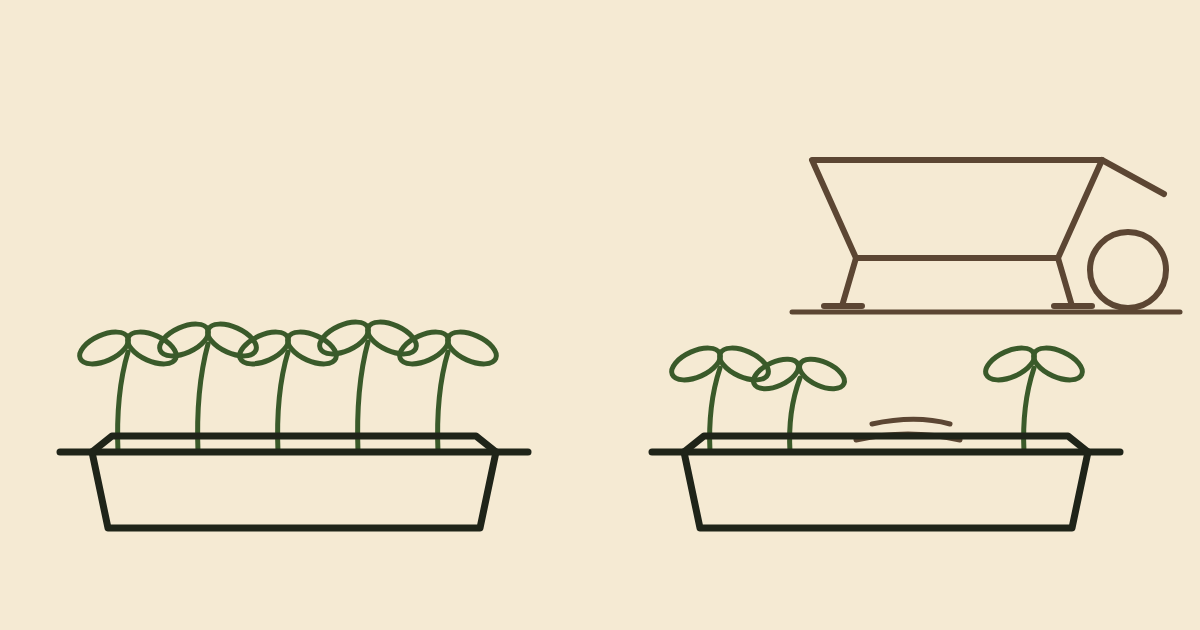
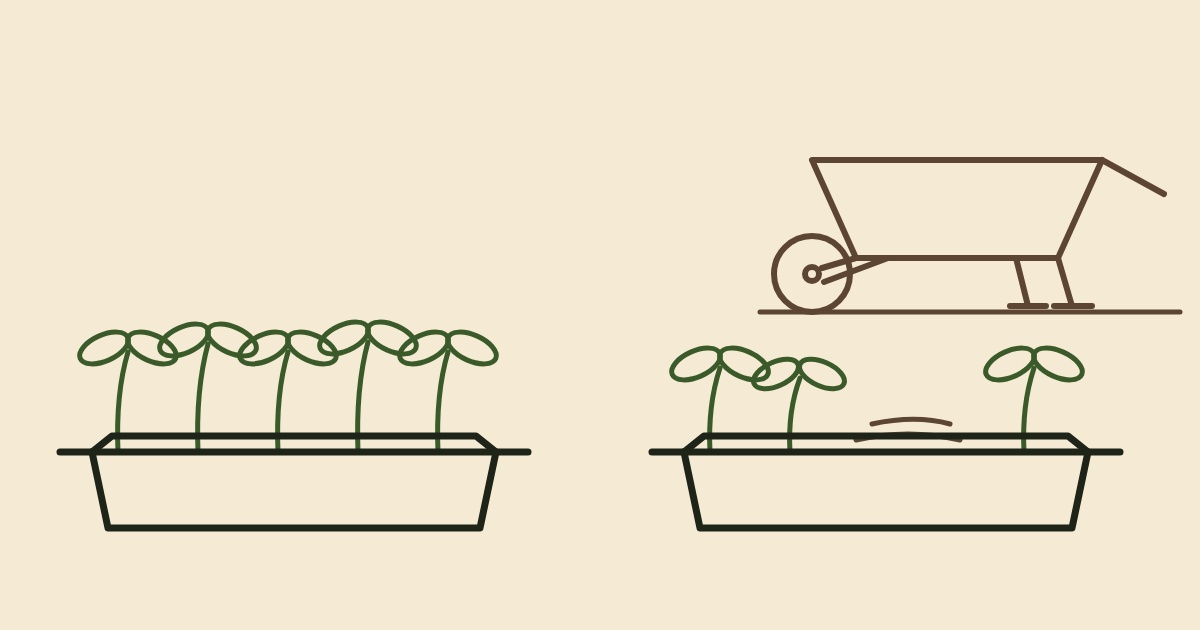
fix(blog): correct wheelbarrow wheel on when-a-tray-goes-wrong hero
The wheel was drawn at the handle end and detached from the barrow, the
same error caught on the Aug 26 mulch hero. Moved it to the front with
two struts to the tub and a hub, dropped the leg at the wheel end in
favor of a rear pair, and extended the ground line to meet the wheel.
PNG re-rendered from the corrected SVG.

Claude-Session: https://claude.ai/code/session_01EmqMBREf57NdiKXSnN8nHS

diff --git a/CONTENT-PLAN.md b/CONTENT-PLAN.md
@@ -301,7 +301,7 @@ file back into `posts/`.
 | Tue Aug 25 | Homestead journal | Cover crop check-in | What's growing, what the soil looks like under it. Pays off the Aug 5 post, which deliberately reported no germination result. **Facts from Albert 2026-08-24: the stand came up and it came up even, he cannot name species out there yet, and the ground is mostly covered with bare sand hard to find now.** So the post **names no species at all** and says why, rather than listing what we would expect to see. The one finding is the ground cover. Notes that broadcasting into mowed residue could have come up blotchy and did not. **No per-acre figure, no invented bag price, and chop-and-drop stays withheld for Sep 9.** Loose kitchen-table register, opens cold on two words. 649 words. | [x] posts/cover-crop-check-in.md |
 | Wed Aug 26 | Permaculture | Mulch: the cheapest tool we have | The practical how-to: where to source it, how deep, and how often to replenish in Florida heat. Pairs with the Jul 22 worms post; hands-on, not theory. **Facts from Albert 2026-08-24: ours is free tree service chips, we have never bought it, laid three to four inches, topped up about once a year.** Mulch was referenced in Jul 28, Aug 4, Aug 12, and Aug 18 and never once explained, so the material itself was open ground. Frames the chip drop as a favor to the crew rather than scrounging, and is honest that you choose neither species nor day nor quantity. Closes on three ways to get it wrong: expecting compost, being precious about species, and waiting for a plan. **Review round 1 on 2026-08-26 added a third practical note**: take-what-comes is really a first-load rule, and a crew that keeps coming back can be asked for something more specific, with the arborist framed as the person who can tell you what a load will do once it is down if you do not know what to ask for. **Written in second person as available to the reader, never as our own standing relationship, because we have none on record and the no-fabricated-anecdote rule applies.** The species mistake stays as written and now says plainly that asking a crew you know is not the same as refusing a free load. Same round fixed the hero SVG, whose wheel had been drawn at the handle end and detached. Longest permaculture post so far at 1031 words. | [x] posts/mulch-the-cheapest-tool-we-have.md |
 | Thu Aug 27 | On the route | Meet College Park and Downtown Orlando | Fourth and final neighborhoods profile, completing all nine. **Applies the Aug 20 call: design only, no admission.** Present tense about the design, never about drops, and one line about the route ending in College Park twice a week was rewritten to describe the route rather than report deliveries. **Does not repeat the invented customer copy on the city pages**, specifically College Park's "most stops happen between 5pm and 7pm" and downtown's condo-dweller closer. Two neighborhoods that are not on the same route are together because both sit on ground that grew food: College Park's first known house was built by a citrus grower in the middle of an eighty acre grove, the college street names came with the 1920s boom, Dubsdread opened 1924, Kerouac wrote on Clouser. Parramore is named because it is the reason the Sunday route exists, and it gets a short factual paragraph, established in the 1880s, the historical hub of Orlando's African American community, cut off from downtown by the interstate in the 1960s, plus an explicit line that being there on a Sunday is not the same as being from there. Verified against Wikipedia and the Orange County Regional History Center 2026-08-24; no figures the sources did not confirm. Design section contrasts a dinner delivery against a Sunday setup delivery, which is the one operational idea no other route post has. 920 words. | [x] posts/meet-college-park-and-downtown-orlando.md |
-| Fri Aug 28 | Growing notes | When a tray goes wrong | **Angle narrowed hard after a coverage grep.** Aug 8 owns diagnosis in full, including root hairs versus mold, and beet-molds-most-often already ran Jul 14, Jul 26, and Aug 7. So this post refuses diagnosis and takes the shed-side decision instead: what happens to the tray. **Facts from Albert 2026-08-24, both new to the blog: patchy germination, and pea mold.** A patchy tray is not restarted, not topped up, and not cut lower to make weight; it just means less in the clamshell, so the shed absorbs it as yield. A moldy tray is out entirely, never trimmed around, which also keeps the adulteration rule intact. **Moldy pea goes to the black soldier fly bin rather than the chickens because it is not good for the birds**, which pays off both Jul 8 and Jul 28. Beet stays named as the crop we lose most often; pea is added to that story, not a correction of it. No invented seed counts. 721 words. | [x] posts/when-a-tray-goes-wrong.md |
+| Fri Aug 28 | Growing notes | When a tray goes wrong | **Angle narrowed hard after a coverage grep.** Aug 8 owns diagnosis in full, including root hairs versus mold, and beet-molds-most-often already ran Jul 14, Jul 26, and Aug 7. So this post refuses diagnosis and takes the shed-side decision instead: what happens to the tray. **Facts from Albert 2026-08-24, both new to the blog: patchy germination, and pea mold.** A patchy tray is not restarted, not topped up, and not cut lower to make weight; it just means less in the clamshell, so the shed absorbs it as yield. A moldy tray is out entirely, never trimmed around, which also keeps the adulteration rule intact. **Moldy pea goes to the black soldier fly bin rather than the chickens because it is not good for the birds**, which pays off both Jul 8 and Jul 28. Beet stays named as the crop we lose most often; pea is added to that story, not a correction of it. No invented seed counts. 721 words. **Hero SVG fixed 2026-08-28**: the wheelbarrow wheel had been drawn at the handle end and detached, the same error caught on the Aug 26 mulch hero. Wheel moved to the front, tied to the tub with two struts, hub added, the spare leg at the wheel end dropped, ground line extended left to meet it, and the PNG re-rendered from the SVG. | [x] posts/when-a-tray-goes-wrong.md |
 | Sat Aug 29 | Reader questions | Can I freeze microgreens? | Honest no, plus what works instead. Untouched ground: Jul 18 owns shelf life and Aug 15 owns the porch clock. Answer is one word, then the structural reason, that turgor is the product and ice crystals take the cell walls out, with the honest comparison to mature spinach which has fiber to fall back on. What works instead is eat in order, or freeze them inside something wet where the leaf was never going to hold shape anyway. Any at-home step is stated as the customer's, at their own sink. **Shortest post in the archive at 328 words**, deliberately, to break up a long run of 600 to 900. Single CTA to /subscribe/. | [x] posts/can-i-freeze-microgreens.md |
 
 ### Week 9 · Aug 30 - Sep 5 · Arc 2
